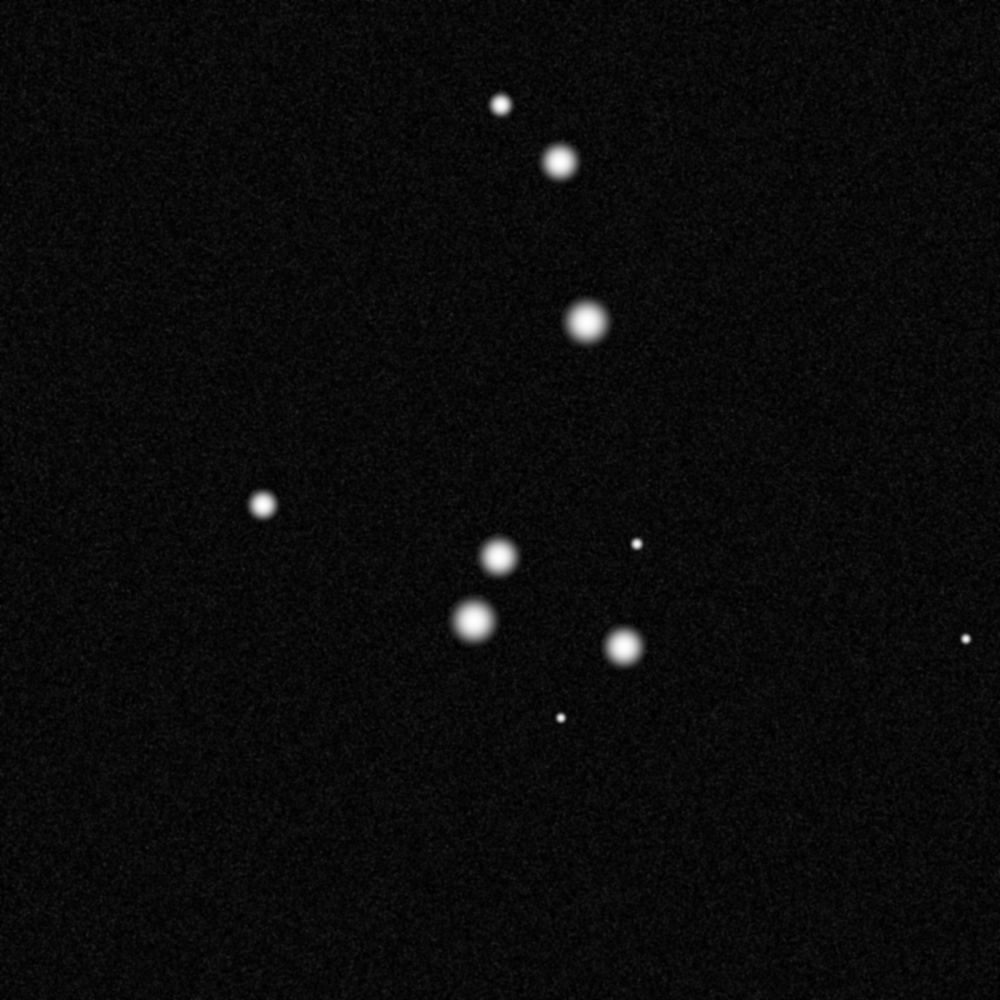
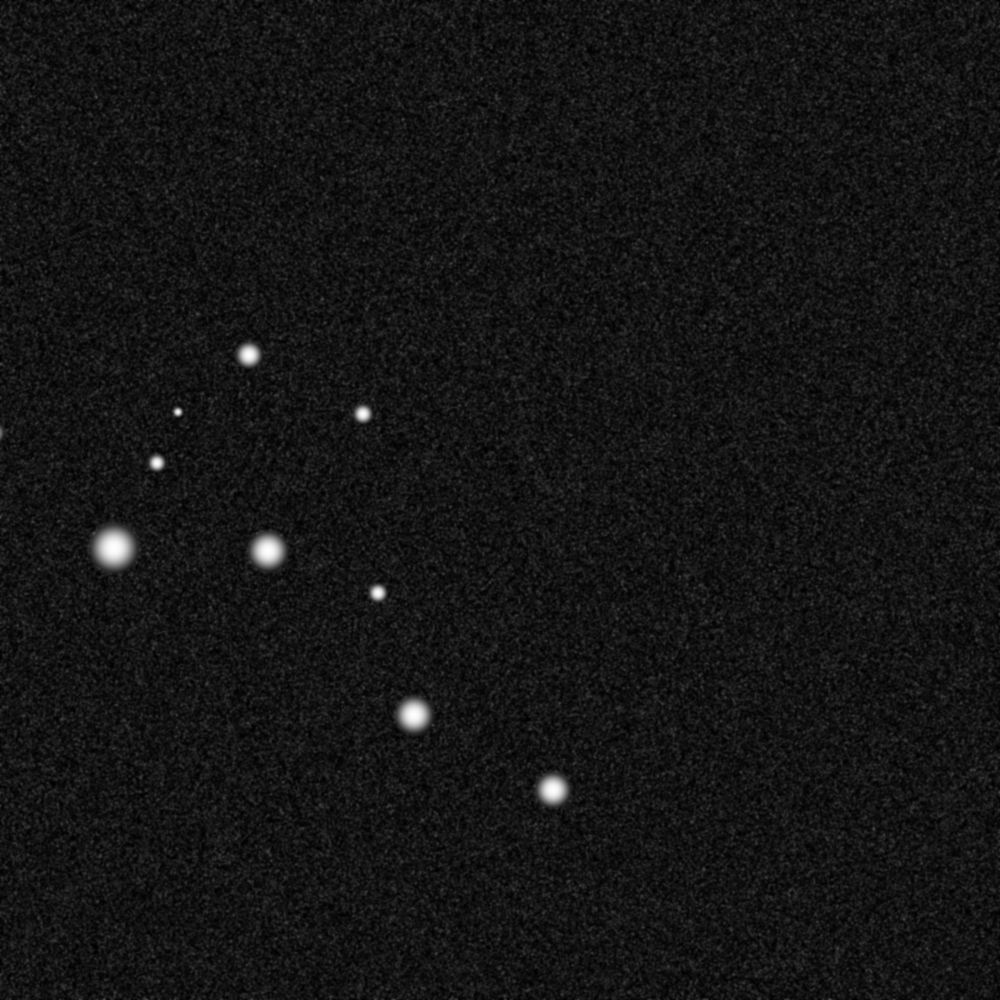
learn threshold wip

diff --git a/nns/dog/dog.py b/nns/dog/dog.py
@@ -11,6 +11,7 @@ from nns.dog.data import Trivial, PLIF
 from nns.dog.model import DifferenceOfGaussians
 from sk_image.blob import make_circles_fig
 from sk_image.preprocess import make_figure
+import numpy as np
 
 DATA_DIR = os.environ.get("FSP_DATA_DIR")
 if DATA_DIR is None:
@@ -28,7 +29,7 @@ def dog_train_test():
     image_pth = Path(os.path.dirname(os.path.realpath(__file__))) / Path(
         "../../simulation/screenshot.png"
     )
-    screenshot = Trivial(img_path=image_pth, num_repeats=50)
+    screenshot = Trivial(img_path=image_pth, num_repeats=100)
     train_dataloader = torch.utils.data.DataLoader(
         screenshot, batch_size=1, pin_memory=PIN_MEMORY
     )
@@ -42,7 +43,7 @@ def dog_train_test():
         else:
             param.requires_grad = False
 
-    criterion = nn.CrossEntropyLoss(reduction="sum")
+    criterion = nn.NLLLoss(reduction="sum")
     optimizer = optim.Adam(dog.parameters())
     for i, (img_tensor, truth_tensor) in enumerate(train_dataloader):
         optimizer.zero_grad()
@@ -54,6 +55,10 @@ def dog_train_test():
         loss.backward()
         print(loss)
         optimizer.step()
+
+    for name, param in dog.named_parameters():
+        if name == "threshold":
+            print(name, param.data)
 
     dog.eval()
 
@@ -93,9 +98,9 @@ def torch_dog(dataloader, **dog_kwargs):
         dog.eval()
         for img_tensor, truth_tensor in dataloader:
             img_tensor = img_tensor.to(DEVICE, non_blocking=PIN_MEMORY)
-            image_max, mask = dog(img_tensor)
-            blobs = dog.make_blobs(image_max, mask)
-    return blobs
+            mask, local_maxima = dog(img_tensor)
+            blobs = dog.make_blobs(local_maxima, mask)
+            return blobs
 
 
 def torch_dog_img_test():
@@ -103,24 +108,26 @@ def torch_dog_img_test():
     image_pth = Path(os.path.dirname(os.path.realpath(__file__))) / Path(
         "../../simulation/screenshot.png"
     )
-    screenshot = Trivial(img_path=image_pth, num_repeats=1)
+    screenshot = Trivial(img_path=image_pth, num_repeats=100)
     make_figure(screenshot[0][0].squeeze(0).numpy()).show()
     train_dataloader = torch.utils.data.DataLoader(
         screenshot, batch_size=1, pin_memory=PIN_MEMORY
     )
-
-    blobs = torch_dog(
-        train_dataloader,
-        min_sigma=1,
-        max_sigma=40,
-        prune=True,
-        overlap=0.9,
-        threshold=0.1,
-    )
-    print(len(blobs))
-    make_circles_fig(screenshot[0][0].squeeze(0).numpy(), blobs).show()
-    plt.hist([r for (_, _, r) in blobs], bins=256)
-    plt.show()
+    for t in np.linspace(0.01, 1, 100):
+        blobs = torch_dog(
+            train_dataloader,
+            min_sigma=1,
+            max_sigma=40,
+            prune=True,
+            overlap=0.9,
+            threshold=t,
+        )
+        print(len(blobs))
+        make_circles_fig(screenshot[0][0].squeeze(0).numpy(), blobs).savefig(
+            f"/home/maksim/dev_projects/old_merf/merf/nns/dog/dogs/{t}.png"
+        )
+    # plt.hist([r for (_, _, r) in blobs], bins=256)
+    # plt.show()
 
 
 def main():

diff --git a/simulation/simulate.py b/simulation/simulate.py
@@ -87,6 +87,7 @@ if __name__ == "__main__":
         blobs.append((x,y,r))
         mask = create_circular_mask(window_size, window_size, (y, x), r * 0.9)
         noisy[mask] = 0
-    res = gaussian(noisy + im, sigma=1)
+    noise_strength = 2
+    res = gaussian(2*noisy + im, sigma=1)
     # make_circles_fig(res, np.array(blobs)).show()
     Image.fromarray((res*255).astype(np.uint8)).save("screenshot.png")
